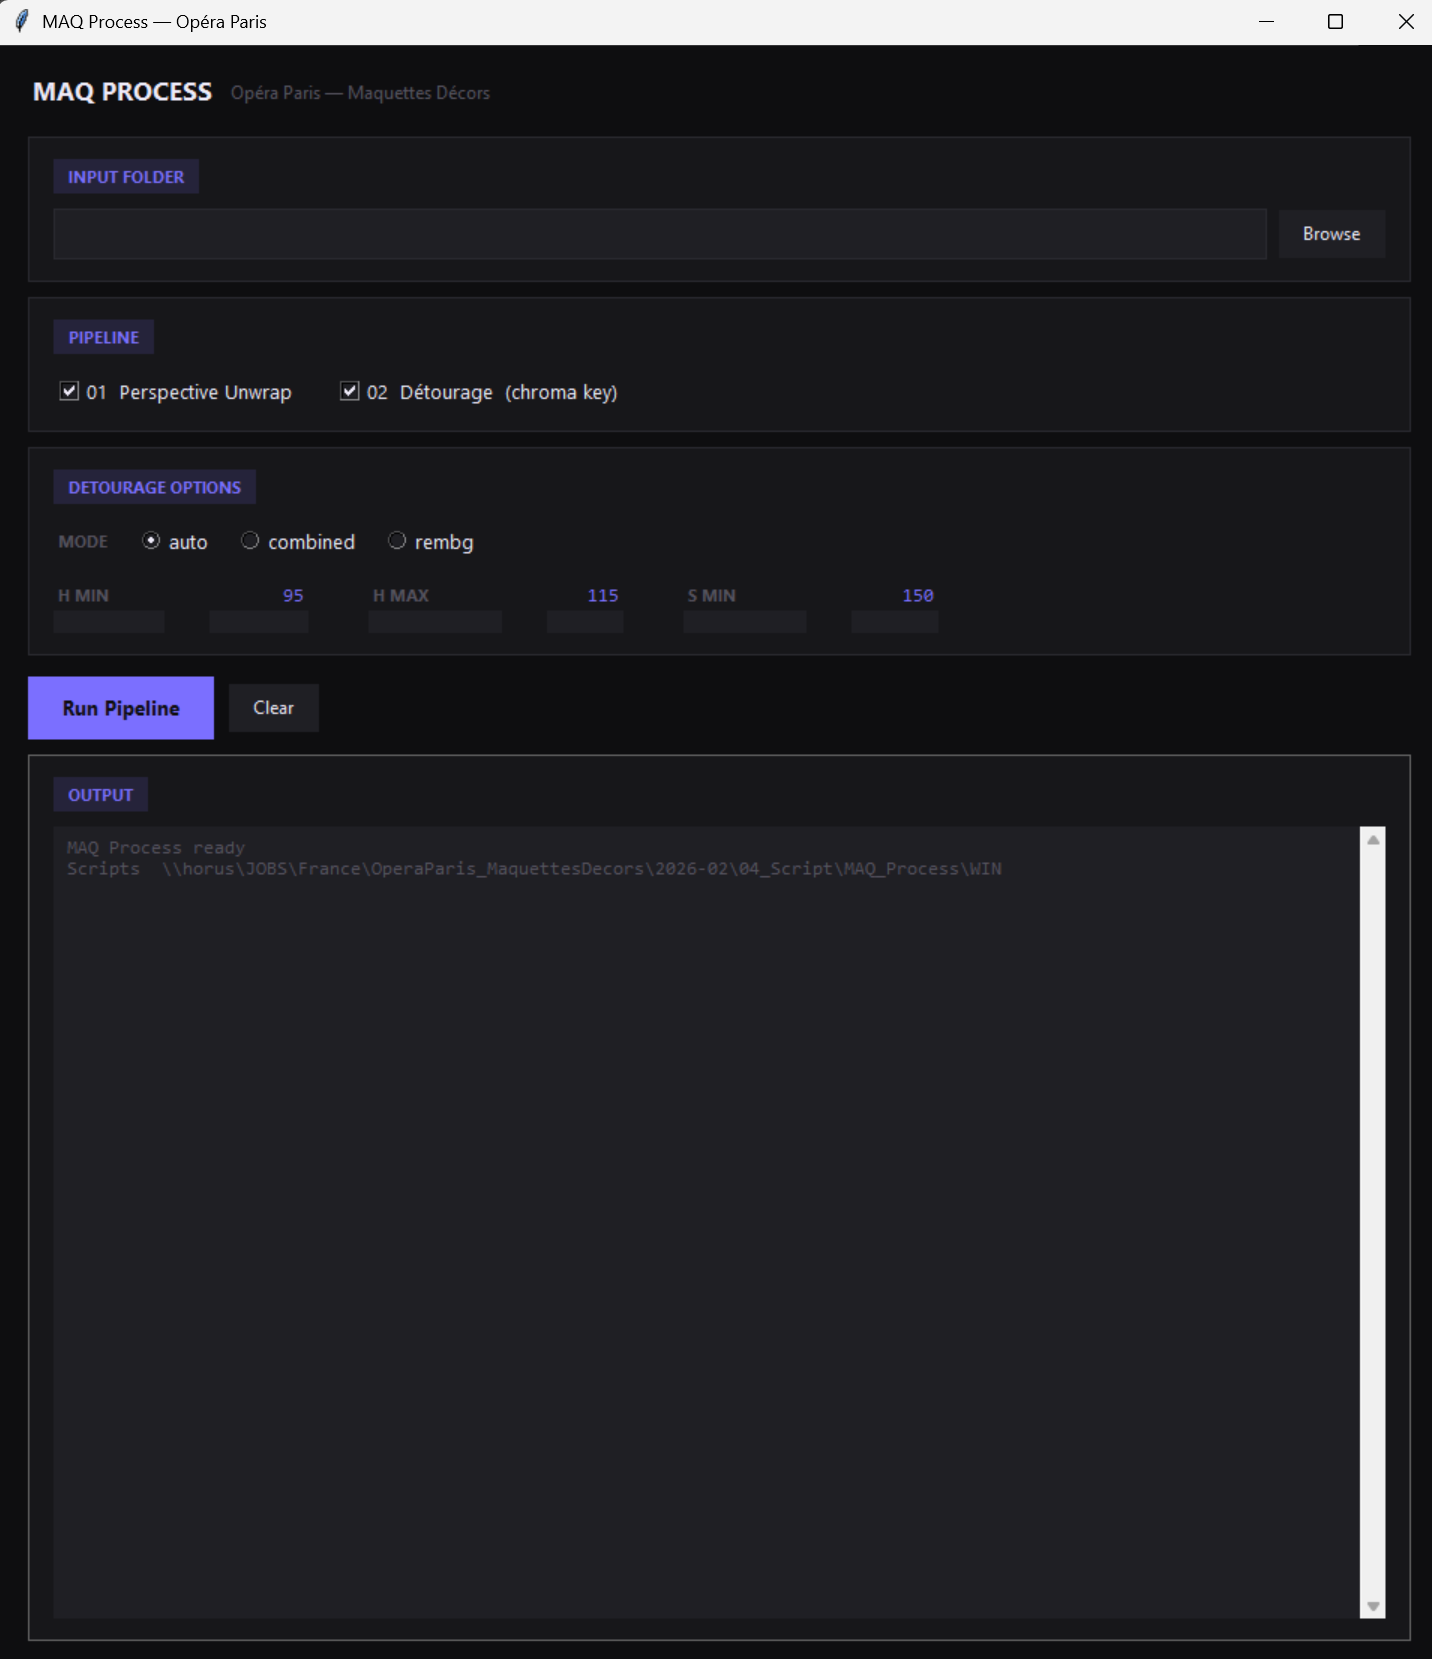
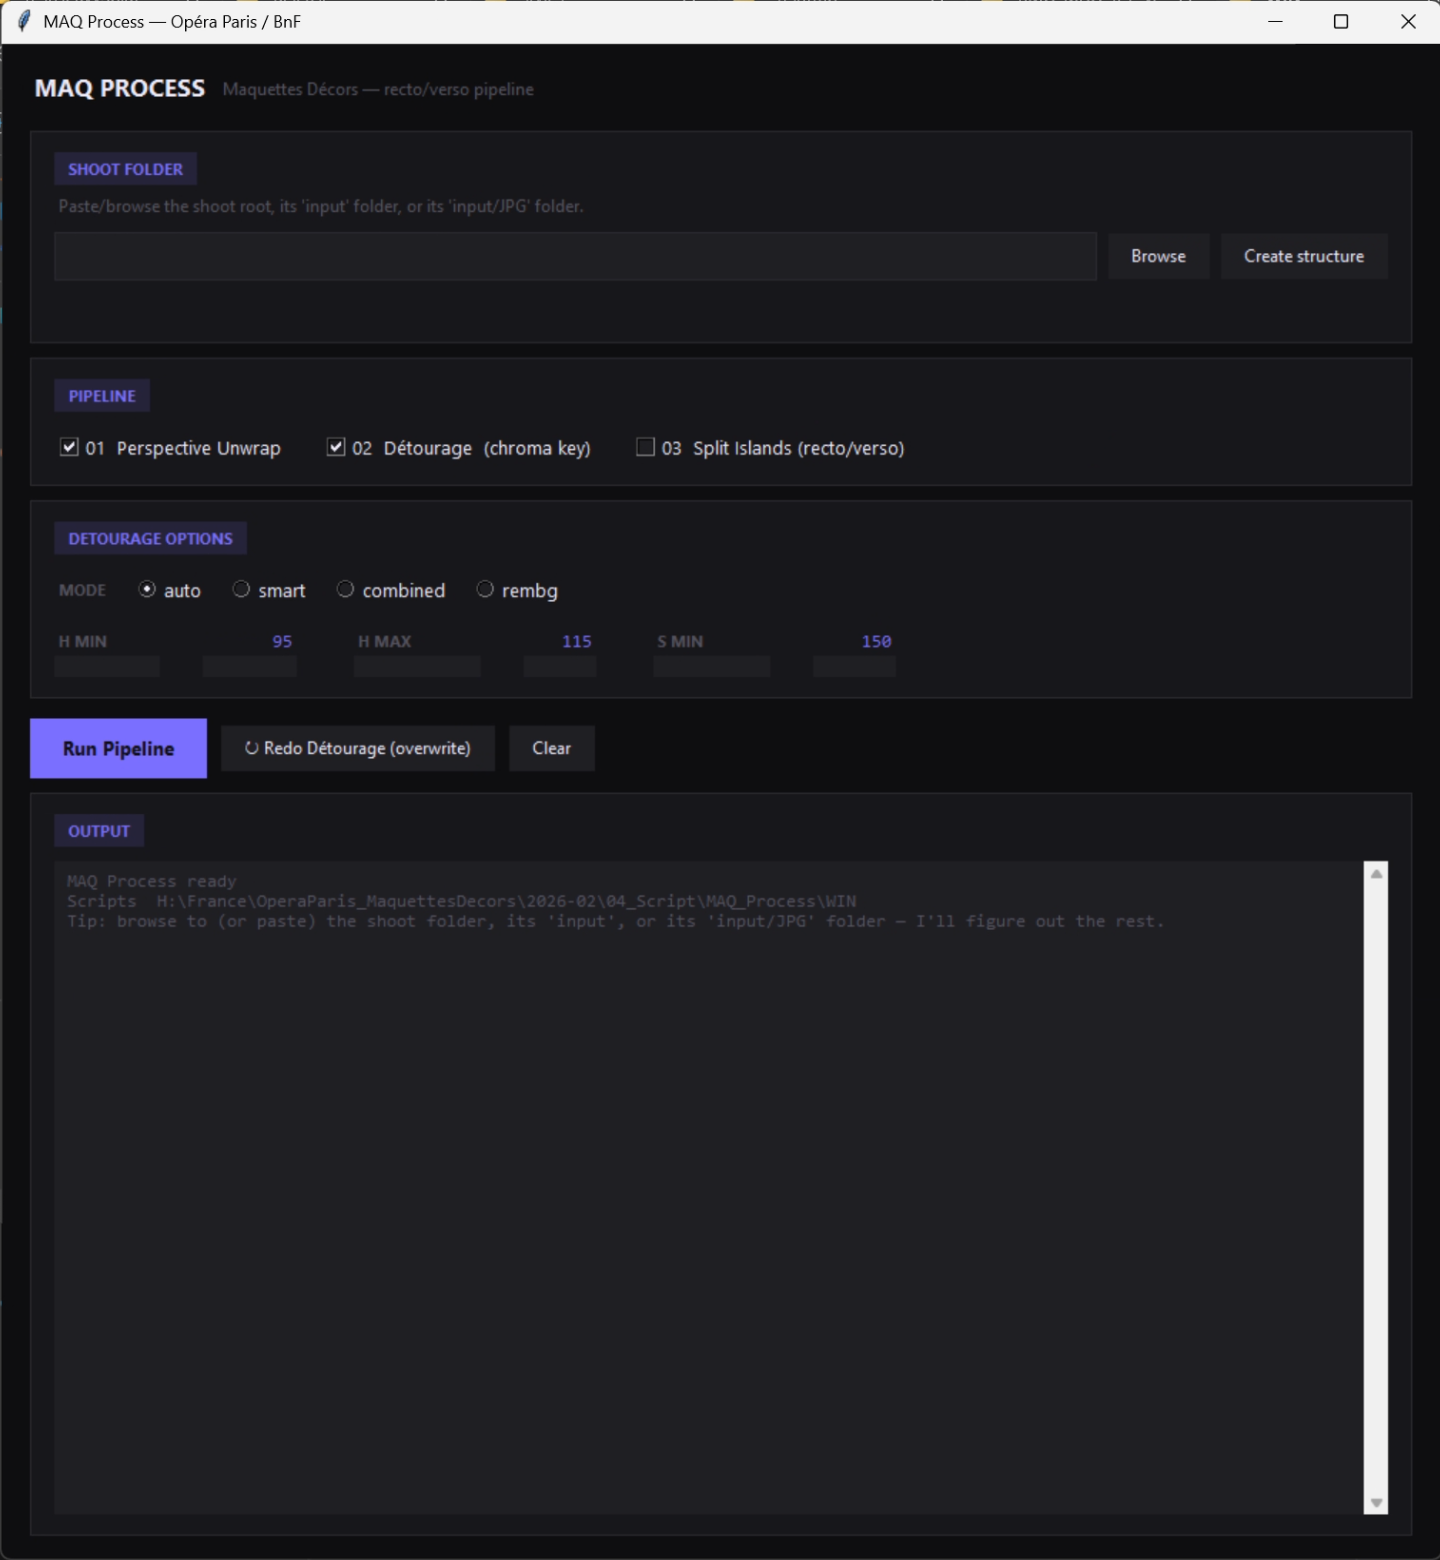
Update README + interface screenshot

diff --git a/README.md b/README.md
@@ -4,7 +4,7 @@
 
 Drop 4 ArUco markers on your shooting board, photograph your objects on a colored background — this tool handles the rest. Detects the markers, rectifies the perspective, removes the background, outputs clean transparent PNGs.
 
-Built for the digitization of historical stage design maquettes at the **Opéra national de Paris**, but the pipeline is fully generic and works for any flat object on any colored background.
+Built for the digitization of historical stage design maquettes (Opéra national de Paris, Bibliothèque nationale de France), but the pipeline is fully generic and works for any flat object on any colored background.
 
 ---
 
@@ -26,6 +26,10 @@ Built for the digitization of historical stage design maquettes at the **Opéra 
 uv run python WinMAQProcess.py
 ```
 
+The path field accepts the shoot root, its `input` folder, or its `input/JPG` folder — paste or browse to any of them and it snaps back to the shoot root automatically. **Create structure** builds the missing sub-folders (`input`, `input/JPG`, `debug`, `output`, `output_det`) on the spot, which is handy the first time you point it at a shoot a student sent from their own machine. The status line under the path shows how many source images were actually found and where.
+
+**↻ Redo Détourage (overwrite)** re-runs step 2 only, with whatever mode/sliders are currently set, without re-running the perspective unwrap — useful for iterating on a chroma key that didn't come out right.
+
 ---
 
 ## What it does
@@ -36,15 +40,33 @@ Detects 4 ArUco fiducial markers (DICT_4X4_50, IDs 0–3) placed at the corners 
 
 The detector tries 6 preprocessing strategies in sequence (original, CLAHE, histogram equalization, blur+CLAHE, wide blur, adaptive threshold) and stops at the first one that returns exactly 4 markers with unique IDs. Any result with duplicate IDs is automatically rejected — preventing false positives from color checkers, rulers, or labels present in the frame from corrupting the transform.
 
+Source images are picked up from `input/JPG/` if present, falling back to `input/` directly for older shoots — so both folder conventions work without touching the script.
+
 ### Step 2 — Chroma Key Détourage
 
-Removes the colored background using HSV-based chroma keying. Three modes available:
+Removes the colored background using HSV-based analysis. Four modes available:
 
 | Mode | Description |
 |------|-------------|
-| `auto` | HSV chroma key only — fast, works for most cases |
+| `auto` | Plain HSV chroma key — fast, conservative, works for most shoots |
+| `smart` | Silhouette + plate-carve — for maquettes that themselves contain blue/teal *paint* (shutters, skies, water) that plain color keying would wrongly cut out |
 | `combined` | Chroma key + AI (rembg) — better on complex shapes |
 | `rembg` | AI only — for very intricate or unusual objects |
+
+`smart` auto-calibrates the plate color from the image corners, then floods the background inward from the border through plate-colored pixels only — so enclosed blue paint that never touches the border edge is kept as part of the object, while the surrounding plate is removed.
+
+Fine-tuning flags (all optional, safe defaults):
+
+| Flag | Default | Effect |
+|------|---------|--------|
+| `--grow` | `0` | `[auto]` grow the cut by N px to trim a thin blue halo |
+| `--spill` | `0.0` | Blue spill removal strength — keep at `0` on blue-heavy artwork or it dulls legitimate blue paint |
+| `--close` | `3` | `[smart]` edge grow in px to swallow blue fringing |
+| `--plate-frac` | `0.002` | `[smart]` minimum area fraction for a blue blob to count as background plate |
+
+### Step 3 — Split Islands *(optional)*
+
+Splits each détouré PNG into individual floating pieces ("islands") ready for recto/verso pairing downstream. This step calls `maq_split_islands.py`, which belongs to the [IslandSeparator_RectoVersoMatching-BlenderImporter](https://github.com/Braccialisme/IslandSeparator_RectoVersoMatching-BlenderImporter) repo — copy that script alongside `WinMAQProcess.py` (same folder) for this checkbox to work, or leave it unchecked and run the Island Process GUI from the other repo separately.
 
 ---
 
@@ -61,8 +83,8 @@ A single threshold setting fails when shooting conditions vary — darker frames
 ### HSV over RGB for chroma keying
 RGB is not perceptually uniform — the same blue background looks very different in RGB values under different lighting conditions. HSV separates Hue (color identity) from Saturation (color purity) and Value (brightness), which maps much more cleanly to the human concept of "this is a blue background." By thresholding on Hue range + Saturation minimum, the mask captures the blue background reliably regardless of lighting variation across the frame, while ignoring blue-ish tones in the object itself (which tend to be desaturated).
 
-### Edge feathering + color spill correction
-A hard mask edge looks artificial. The pipeline applies Gaussian blur to the alpha mask edges (feathering) and reduces blue channel dominance near the object boundary (spill correction), producing natural-looking cutouts even on objects with semi-transparent or fibrous edges.
+### Border-flood ("smart") mode for blue-heavy artwork
+Plain color keying can't tell plate-blue from painted-blue — a teal wash or blue shutter shares the same HSV slice as the background. `smart` adds a shape prior on top of color: only plate-colored pixels connected to the image border are treated as background. Anything the flood never reaches — including enclosed blue paint — is kept as part of the object.
 
 ### rembg as optional fallback
 For objects with very complex silhouettes that HSV keying struggles with, [rembg](https://github.com/danielgatis/rembg) (U2Net) provides an AI-based fallback. In `combined` mode, the minimum of both alpha channels is used — taking the most conservative mask from each method, which tends to give the cleanest result on difficult cases.
@@ -91,11 +113,16 @@ Optional for `combined` / `rembg` modes: `rembg`
 
 ```
 MY_SHOOT_NAME/
-├── input/          ← raw JPG photographs
+├── input/
+│   └── JPG/        ← raw JPG photographs (new convention — local student uploads)
+│       (or JPGs directly in input/, for older shoots)
 ├── output/         ← rectified images (created by PersUnwrap)
 ├── output_det/     ← transparent PNGs (created by Détourage)
-└── debug/          ← ArUco detection debug images
+├── debug/          ← ArUco detection debug images
+└── islands/        ← individual piece crops (created by Split Islands, if run)
 ```
+
+Both `input/JPG/*.jpg` and `input/*.jpg` are supported automatically — no per-shoot configuration needed.
 
 ---
 
@@ -104,17 +131,22 @@ MY_SHOOT_NAME/
 ```powershell
 # By full path
 uv run python WinPersUnwrap.py --base-path "C:\path\to\shoot"
-uv run python WinDetourage.py  --base-path "C:\path\to\shoot"
+uv run python WinDetourage.py  --base-path "C:\path\to\shoot" --mode auto
+
+# Smart mode, for maquettes with blue/teal paint
+uv run python WinDetourage.py --base-path "C:\path\to\shoot" --mode smart --close 3 --plate-frac 0.002
 
 # By shoot name (if base path is configured in the script)
 uv run python WinPersUnwrap.py --shoot MY_SHOOT_NAME
 uv run python WinDetourage.py  --shoot MY_SHOOT_NAME --mode combined --s-min 120
 ```
 
-**HSV tuning tips:**
-- Pale or grey object being eaten → lower `--s-min` (try 120)
-- Residual background remaining → try `--mode combined`
-- Very complex silhouette → try `--mode rembg`
+**Tuning tips (auto/smart stay conservative — they never grow into the object by default):**
+- Too much plate left → raise `--s-min` a little
+- Object edge eaten → lower `--s-min`
+- Thin blue halo on edges → add a touch of `--grow 1`
+- Colours look dulled → keep `--spill 0` (the default)
+- Blue/teal *paint* in the artwork being wrongly removed → use `--mode smart`
 
 ---
 
@@ -131,16 +163,17 @@ uv run python WinDetourage.py  --shoot MY_SHOOT_NAME --mode combined --s-min 120
 
 | File | Description |
 |------|-------------|
-| `WinMAQProcess.py` | GUI — chains both steps with live output |
+| `WinMAQProcess.py` | GUI — chains Unwrap + Détourage (+ optional Split Islands), path-tolerant, with a Redo Détourage shortcut |
 | `WinPersUnwrap.py` | Perspective correction via ArUco detection |
-| `WinDetourage.py` | HSV chroma key background removal |
+| `WinDetourage.py` | HSV chroma key background removal (`auto` / `smart` / `combined` / `rembg`) |
+| `maq_split_islands.py` | *(not in this repo)* — from `IslandSeparator_RectoVersoMatching-BlenderImporter`; copy alongside to enable the Split Islands step in the GUI |
 | `pyproject.toml` | Python dependencies |
 
 ---
 
 ## Context
 
-This pipeline was developed for the digitization of over 200 historical set design maquettes from the archives of the **Opéra national de Paris** — unique hand-painted scale models representing stage décors for 19th and early 20th century opera productions. Each piece is a fragile, irreplaceable artifact requiring careful, consistent, and reproducible photographic documentation.
+This pipeline was developed for the digitization of historical set design maquettes from the archives of the **Opéra national de Paris** and the **Bibliothèque nationale de France** — unique hand-painted scale models representing stage décors for 19th and early 20th century productions. Each piece is a fragile, irreplaceable artifact requiring careful, consistent, and reproducible photographic documentation.
 
 The same approach generalizes to any repeated flat-object photography workflow: artwork digitization, museum cataloguing, document scanning, product photography.
 